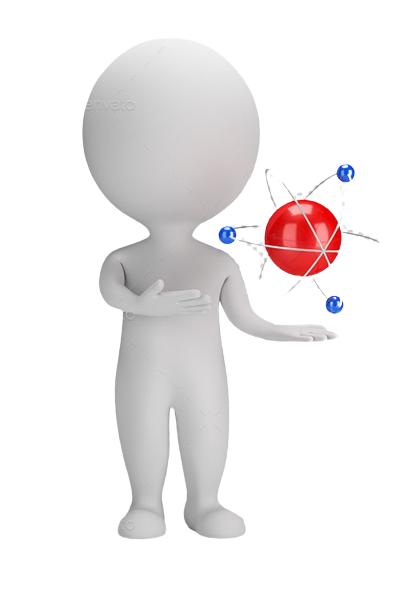
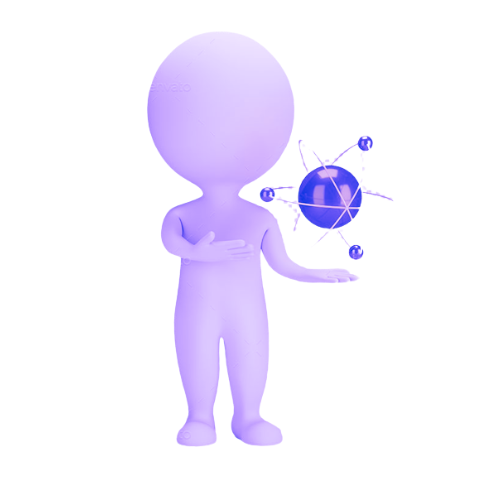
redesign neomorphism plus purple secondary color

Changed region(s): [[0.1743, 0.06, 0.8717, 0.9], [0.8136, 0.27, 0.8717, 0.3], [0.8717, 0.39, 0.9007, 0.42]]

diff --git a/src/components/Senai/index.tsx b/src/components/Senai/index.tsx
@@ -1,10 +1,11 @@
+import { NavLink } from 'react-router-dom'
 import './Senai.css'
 // import Link from 'react'
 export default function Senai() {
     return (
         <>
             <div className="section works">
-                <img src="./bnc-lupa.png" className="sectionImg" />
+                <img src="./bnc-like.png" className="sectionImg" />
                 <div className="school">
                     <Math />
                     <Languages />
@@ -18,14 +19,14 @@ export default function Senai() {
 export function Math() {
     return (
         <>
-            <div className="card">
-                <a href="/school/math">
-                <img src="./bnc-math.png" className="cardImage" />
-                <p>
-                    Matemática e suas Tecnologias
-                </p>
-                </a>
-            </div>
+            <NavLink to="/school/math">
+                <div className="card form">
+                    <img src="./bnc-math.png" className="cardImage" />
+                    <p>
+                        Matemática e suas Tecnologias
+                    </p>
+                </div>
+            </NavLink>
         </>
     )
 }
@@ -33,12 +34,14 @@ export function Math() {
 export function Languages() {
     return (
         <>
-            <div className="card">
-                <img src="./bnc-book.png" className="cardImage" />
-                <p>
-                Linguagens e suas Tecnologias
-                </p>
-            </div>
+            <NavLink to="/school/languages">
+                <div className="card form">
+                    <img src="./bnc-book.png" className="cardImage" />
+                    <p>
+                        Linguagens e suas Tecnologias
+                    </p>
+                </div>
+            </NavLink>
         </>
     )
 }
@@ -47,11 +50,11 @@ export function Languages() {
 export function History() {
     return (
         <>
-            <div className="card">
+            <div className="card form">
                 <img src="./bnc-thinking.png" className="cardImage" />
                 <p>
 
-                Ciências Humanas e suas Tecnologias
+                    Ciências Humanas e suas Tecnologias
                 </p>
             </div>
         </>
@@ -62,11 +65,11 @@ export function History() {
 export function Nature() {
     return (
         <>
-            <div className="card">
+            <div className="card form">
                 <img src="./bnc-science.png" className="cardImage" />
                 <p>
                     Ciências da Natureza e suas Tecnologias
-                    </p>
+                </p>
             </div>
         </>
     )

diff --git a/src/index.css b/src/index.css
@@ -1,24 +1,55 @@
-*{
+@import url("https://fonts.googleapis.com/css2?family=Inter&family=Poppins:wght@300;400;600;700&display=swap");
+
+:root {
+    --primary-light: #F3F3F3;
+    --primary-dark: #353535;
+    --secondary-dark: #4e4e4ebe;
+    --primary-color: #0635E0;
+    --secondary-color: #B995FE;
+}
+
+.elementH:hover {
+    color: var(--secondary-color);
+    transition: 0.5s;
+}
+
+.form {
+    border-radius: 23px;
+    background: #ffffff;
+    box-shadow: 19px 19px 49px #ebebeb,
+        -19px -19px 49px #ffffff;
+}
+.form:active{
+    border-radius: 23px;
+background: linear-gradient(145deg, #e6e6e6, #ffffff);
+box-shadow:  19px 19px 49px #ebebeb,
+             -19px -19px 49px #ffffff;
+}
+
+* {
     margin: 0;
     padding: 0;
 }
-p{
+
+p {
     font-family: 'Poppins';
-    color: rgba(0, 0, 0, 0.75);
 }
-a{
+
+a {
     text-decoration: none;
     color: black;
 }
-a:visited{
+
+a:visited {
     color: #ffffff;
 
 }
-a:hover{
-    color: #3385FF;
+
+a:hover {
+    color: var(--secondary-color);
 }
-  
-.tag{
+
+.tag {
     display: flex;
     align-items: center;
     justify-content: center;
@@ -31,39 +62,44 @@ a:hover{
     background-color: #FFFF;
     /* color: #3385FF; */
 }
-.title{
+
+.title {
     font-weight: bold;
     font-family: 'Poppins';
     font-size: 35px;
-    color: #ffffff;
-    padding-left:15rem;
+    color: #111;
+    padding-left: 15rem;
 }
 
-.section{
+.section {
     background-color: rgb(255, 255, 255);
     margin-top: 5rem;
     padding: 8rem 15rem;
     display: flex;
     justify-content: center;
 }
-.mainText{
+
+.mainText {
     font-weight: 500;
     text-align: justify;
     font-size: 22px;
     letter-spacing: 0.7px;
 }
-.sectionImg{
+
+.sectionImg {
     max-width: 330px;
     padding: 0rem 0rem 0rem 0rem;
     margin-right: -50.8rem;
     position: absolute;
     margin-top: -24.8rem;
 }
-.skills{
+
+.skills {
     flex-direction: column;
     justify-content: start;
 }
-.skills p{
+
+.skills p {
     margin: 1rem 20rem;
     padding: 1rem 2rem;
     border-radius: 1rem;
@@ -73,10 +109,11 @@ a:hover{
     width: 50%;
     height: 2rem;
 }
-.skills img{
+
+.skills img {
     margin-top: -14.5rem;
 }
-span{
+
+span {
     font-weight: bold;
 }
-

diff --git a/src/screens/About/index.tsx b/src/screens/About/index.tsx
@@ -13,19 +13,19 @@ export function About() {
                 {/* <div className="tag">
                     <p>About</p>
                 </div> */}
-                <p className='title'>{"<AboutMe />"}</p>
+                <p className='title elementH'>{"<AboutMe />"}</p>
             </div>
             <AboutMe />
             <div className="container containerSkills">
-            <p className='title'>{"<MySkills />"}</p>
+            <p className='title elementH'>{"<MySkills />"}</p>
             </div>
             <MySkills />
             <div className="container containerRoutine">
-            <p className='title'>{"<MyRoutine />"}</p>
+            <p className='title elementH'>{"<MyRoutine />"}</p>
             </div>
             <MyRoutine />
             <div className="container containerRoutine">
-            <p className='title'>{"<SchoolWorks />"}</p>
+            <p className='title elementH'>{"<SchoolWorks />"}</p>
             </div>
             <Senai />
         </>

diff --git a/src/components/Senai/Senai.css b/src/components/Senai/Senai.css
@@ -1,6 +1,5 @@
-.card{
+.card {
     background-color: #f0f0f0ea;
-    color: #FFF;
     display: flex;
     flex-direction: column;
     align-items: center;
@@ -8,32 +7,36 @@
     width: 22rem;
     height: 17rem;
     padding: 2rem 2.5rem;
-    font-family: 'Poppins';
     font-weight: 600;
     transition: 0.5s;
     cursor: pointer;
+    color: #111;
 }
-.card:hover{
-    background-color: #7DB1FF;
-    padding: 2.5rem 3rem;
 
+.card:hover {
+    color: var(--primary-color);
 }
-.card p{
+
+.card p {
     text-align: center;
-    font-size: 18px;
-    padding: 0rem 0rem 1rem 0rem;
+    font-family: 'proclamate_light';
+    font-size: 28px;
+    padding: 0rem 1rem 1rem 1rem;
 }
-.cardImage{
+
+.cardImage {
     max-width: 150px;
     max-height: 150px;
     padding: 1rem;
 }
-.school{
+
+.school {
     display: grid;
     grid-template-columns: repeat(2, 1fr);
     gap: 2.5rem;
 }
-.works{
+
+.works {
     display: flex;
     padding: 2rem 2rem;
     justify-content: center;

diff --git a/src/App.css b/src/App.css
@@ -1,7 +1,5 @@
-@import url("https://fonts.googleapis.com/css2?family=Inter&family=Poppins:wght@300;400;600;700&display=swap");
-
 body {
-  background-color: #1b1b1b;
+  background-color: var(--primary-light)
 }
 
 .containerApp {
@@ -21,22 +19,22 @@ body {
 }
 
 .img3d {
-  max-width: 70%;
-  width: 30rem;
+  max-width: 100%;
+  width: 40rem;
   padding-top: 17vh;
   cursor: pointer;
 }
 
 #title {
-  font-family: "blacklettersh", sans-serif;
-  font-size: 10vw;
-  color: #ffffff;
+  font-family: "proclamate_heavy", sans-serif;
+  font-size: 8vw;
+  color: var(--primary-dark);
   text-align: "center";
   margin-top: 7rem;
 }
 
 #subtitle {
-  color: #ffffffbe;
+  color: var(--secondary-dark);
   font-family: "Poppins";
   font-size: 1.8vw;
   font-weight: 600;

diff --git a/src/components/MyRoutine/MyRoutine.css b/src/components/MyRoutine/MyRoutine.css
@@ -1,22 +1,21 @@
 .routine{
-    padding: 7rem 15rem;
+    padding: 7rem 19rem;
 }
 .routine img{
-    max-width: 220px;
-    margin-top: -21.5rem;
+    margin-top: -25.5rem;
 }
 .table{
     font-family: 'Poppins';
     border-radius: 1rem;
     border-collapse:collapse;
-    background-color: rgba(34, 34, 34, 0.75);
+    background-color: #FFFF;
     width: 100%;
-    color: #FFF;
     border-spacing: 1rem; 
     text-align: center;
 }
 th{
     padding: 1rem;
+    color: var(--primary-color);
     font-size: 1.2rem;
 }
 tr:nth-child(even) {

diff --git a/src/components/MyRoutine/index.tsx b/src/components/MyRoutine/index.tsx
@@ -5,8 +5,8 @@ export default function MyRoutine() {
     return (
         <>
             <div className="section routine">
-                <img src="./boneco-task.png" className="sectionImg"/>
-                <table className="table">
+                <img src="./bnc-terno.png" className="sectionImg"/>
+                <table className="table form">
                     <tr>
                         <th>Horário</th>
                         <th>Segunda</th>
